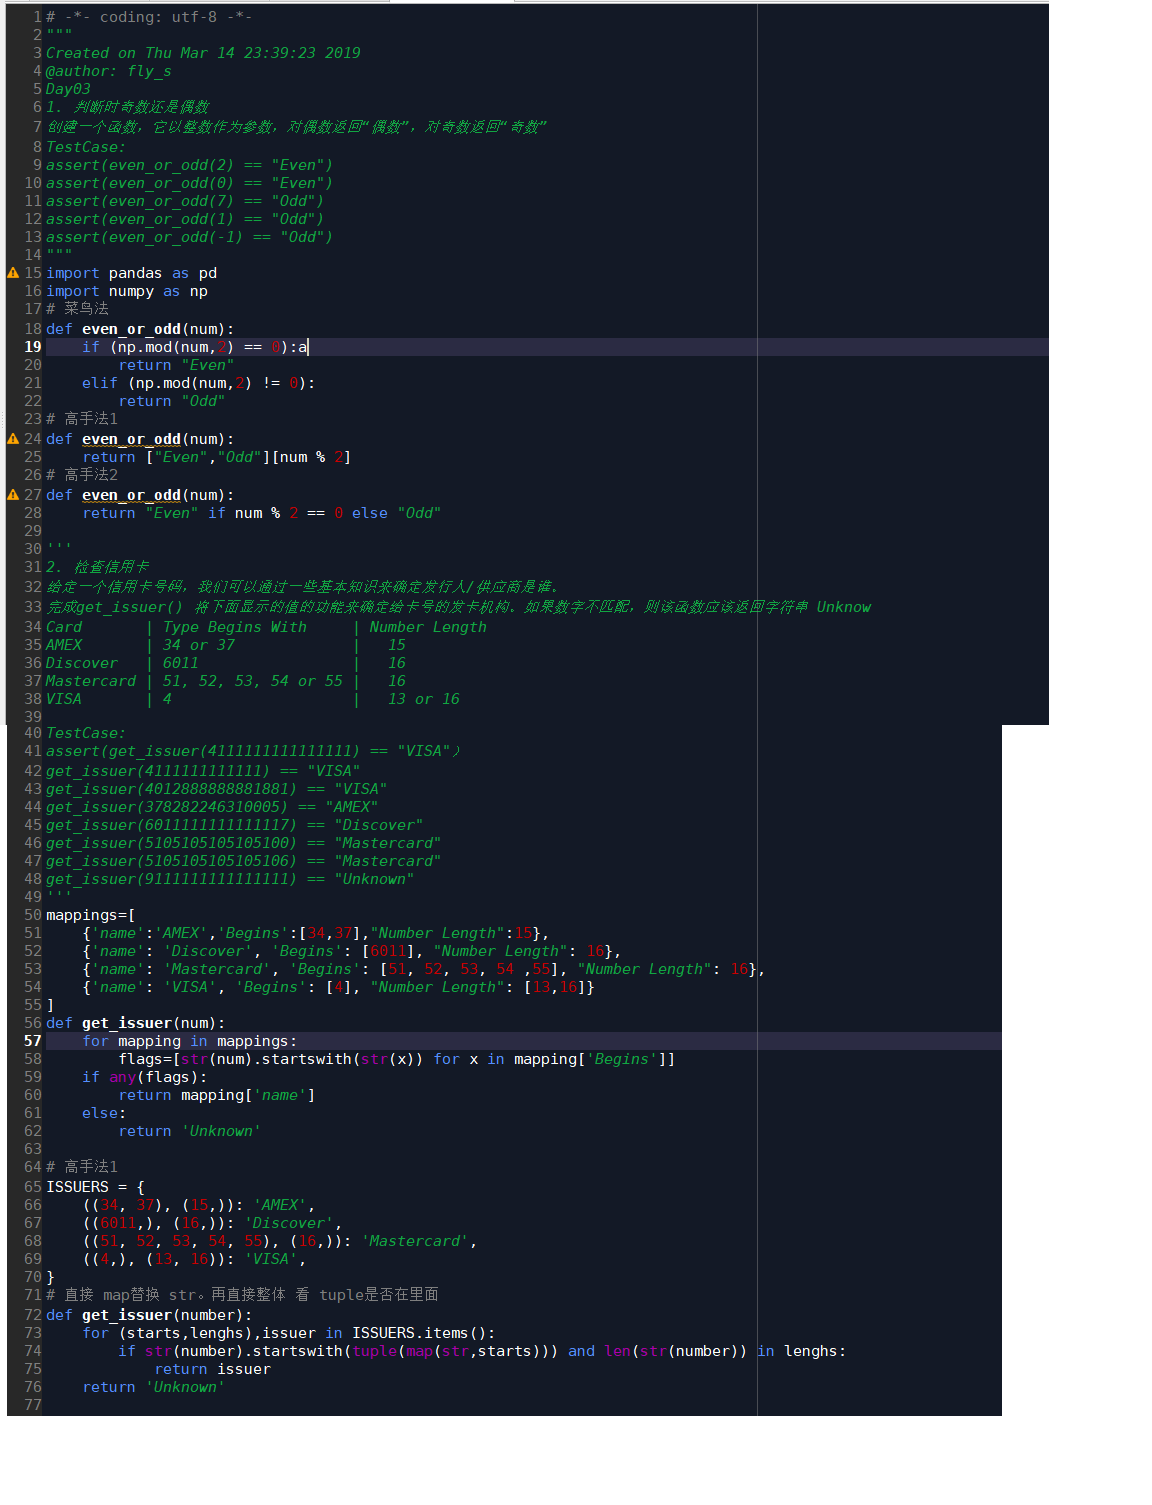
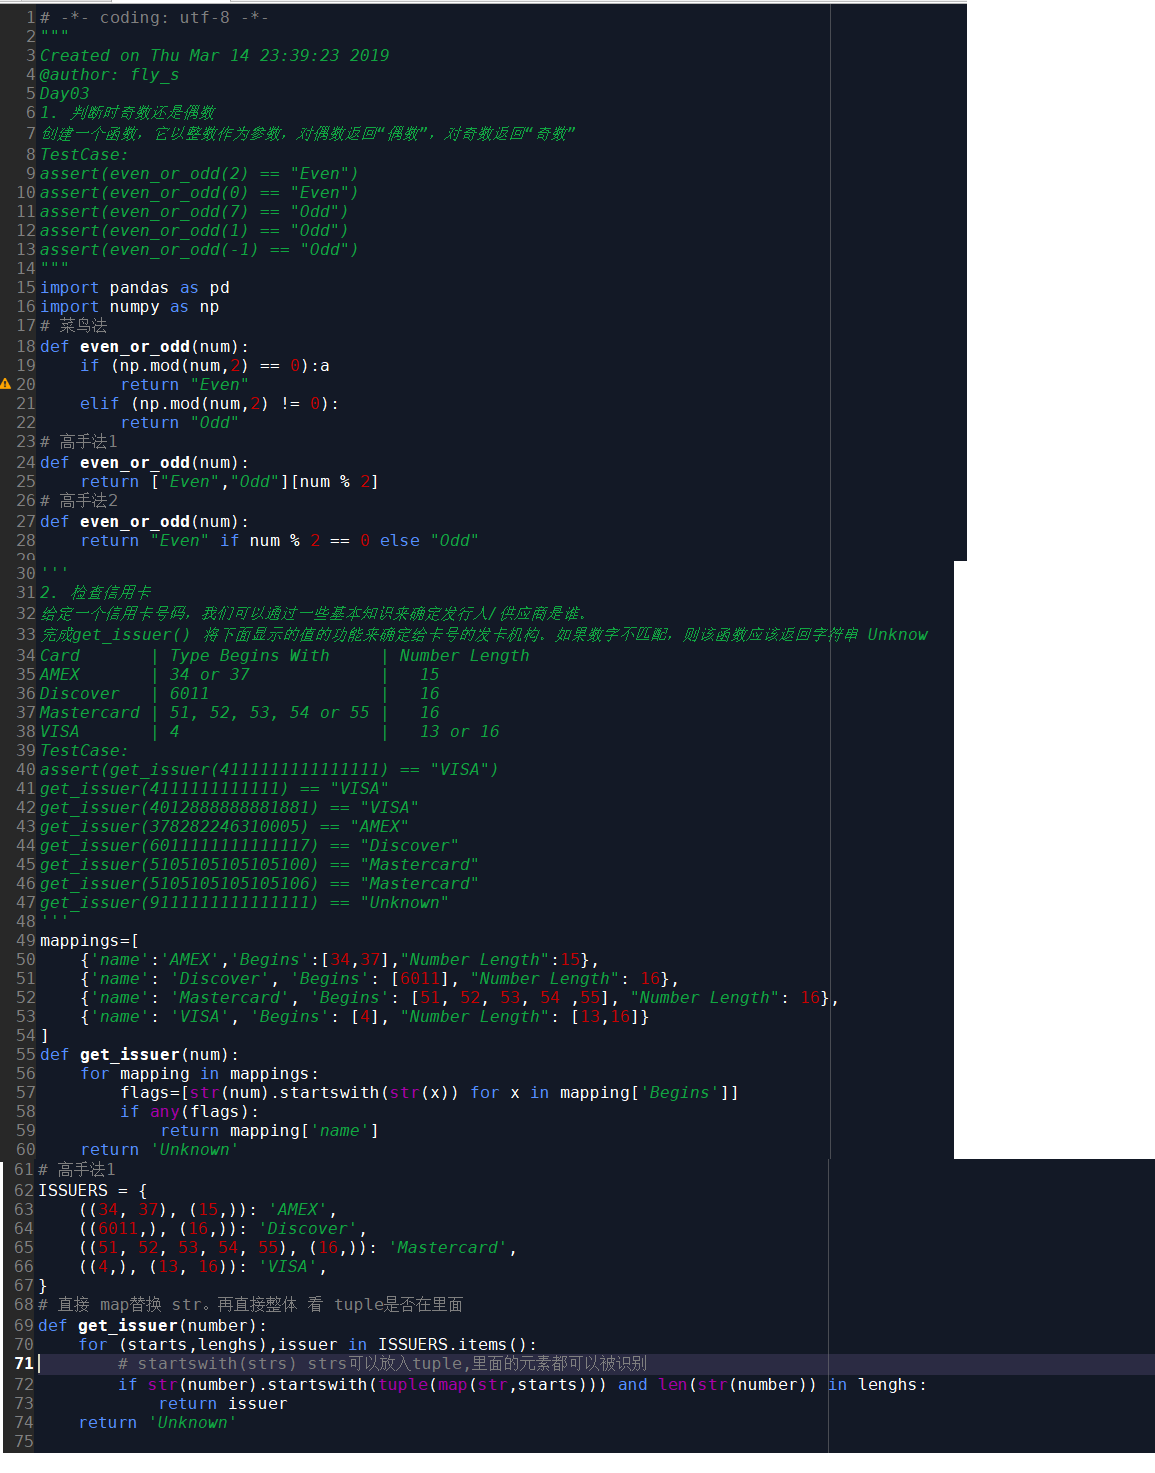
提交信息

Changed region(s): [[0.0, 0.0, 1.0, 0.9993], [0.5938, 0.3747, 0.6875, 0.4372], [0.7188, 0.3747, 0.7812, 0.4372]]

diff --git a/2019Day03.py b/2019Day03.py
@@ -36,9 +36,8 @@ AMEX       | 34 or 37             |   15
 Discover   | 6011                 |   16
 Mastercard | 51, 52, 53, 54 or 55 |   16
 VISA       | 4                    |   13 or 16
-
 TestCase:
-assert(get_issuer(4111111111111111) == "VISA"）
+assert(get_issuer(4111111111111111) == "VISA")
 get_issuer(4111111111111) == "VISA"
 get_issuer(4012888888881881) == "VISA"
 get_issuer(378282246310005) == "AMEX"
@@ -56,11 +55,9 @@ mappings=[
 def get_issuer(num):
     for mapping in mappings:
         flags=[str(num).startswith(str(x)) for x in mapping['Begins']]
-    if any(flags):
-        return mapping['name']
-    else:
-        return 'Unknown'
-
+        if any(flags):
+            return mapping['name']
+    return 'Unknown'
 # 高手法1
 ISSUERS = {
     ((34, 37), (15,)): 'AMEX',
@@ -71,6 +68,7 @@ ISSUERS = {
 # 直接 map替换 str。再直接整体 看 tuple是否在里面
 def get_issuer(number):
     for (starts,lenghs),issuer in ISSUERS.items():
+        # startswith(strs) strs可以放入tuple,里面的元素都可以被识别
         if str(number).startswith(tuple(map(str,starts))) and len(str(number)) in lenghs:
             return issuer
     return 'Unknown'
